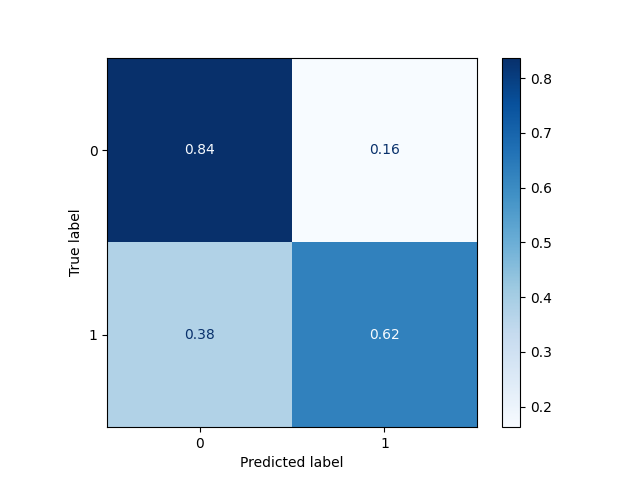
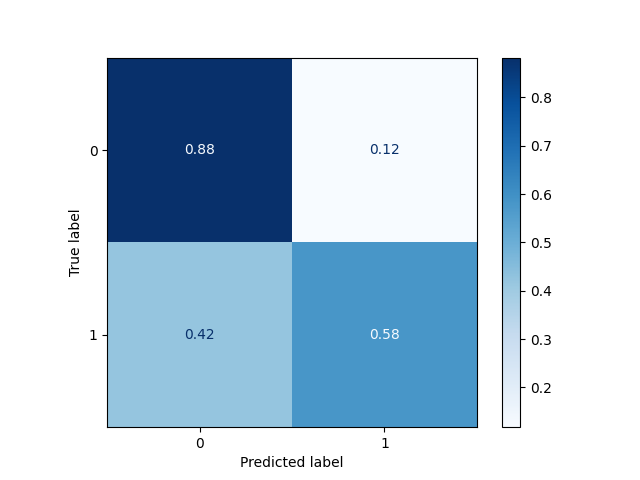
load model fixed

diff --git a/src/xgb_models/utility_xgb.py b/src/xgb_models/utility_xgb.py
@@ -7,13 +7,19 @@ from typing import Tuple
 import torch
 import numpy as np
 from Encoder_classifier.modelEncoderDecoderAdvancedV2 import IMEO
-from utilsData import dataset_loader, load_data # for loading data
+from utilsData import dataset_loader, load_data, unpack_encoder_name
 
 def get_model(model_name:str)->IMEO:
-    return (torch.load(f'./Encoder_classifier/gridResults/Models/{model_name}', weights_only=False))
+    model_data = torch.load(f'./Encoder_classifier/gridResults/Models/{model_name}', weights_only=False)
+    constructor_args = unpack_encoder_name(model_name)
+    model = IMEO(inputSize=136, total_binary_columns=46, embedding_percentage=float(constructor_args['emb_perc']))  # Assuming IMEO has a default constructor
+    model.load_state_dict(model_data)
+    return model
 
 def encode_with_model(model_name:str, tr_data, other_data) -> Tuple[np.array, np.array]:
     model = get_model(model_name)
+    if not isinstance(model, IMEO):
+        raise TypeError(f"Expected model of type IMEO, but got {type(model)}")
     tr_data_enc = model.encode(tr_data).detach().numpy()
     other_data_enc = model.encode(other_data).detach().numpy()
     return tr_data_enc, other_data_enc

diff --git a/Encoder_classifier/test.py b/Encoder_classifier/test.py
@@ -23,13 +23,21 @@ dict = dataset_loader_full(years=years_to_death)
 tr_data = dict['tr_data']
 extended_tr_data = dict['tr_unlabled']
 test_data = dict['test_data']
+vl_data = dict['val_data']
 tr_out = dict['tr_out']
+vl_out = dict['val_out']
 test_out = dict['test_out']
 binary_clumns = dict['bin_col']
+print(binary_clumns)
 #count the pos number
 posCount = tr_out.sum()
 negCount = tr_out.shape[0] - posCount
 posWeight = negCount/posCount
+
+tr_data=torch.cat((tr_data, vl_data), 0)
+tr_out=torch.cat((tr_out, vl_out), 0)
+print(tr_data.shape)
+print(tr_out.shape)
 
 if CLASSIFER_ONLY:
     
